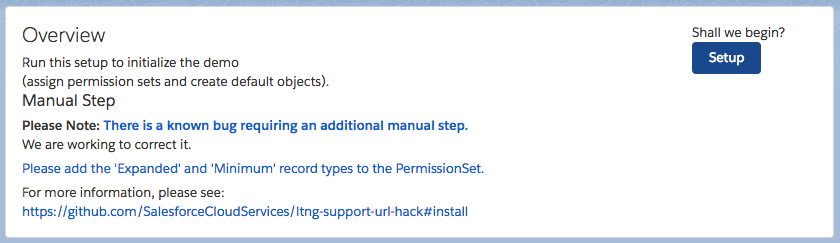
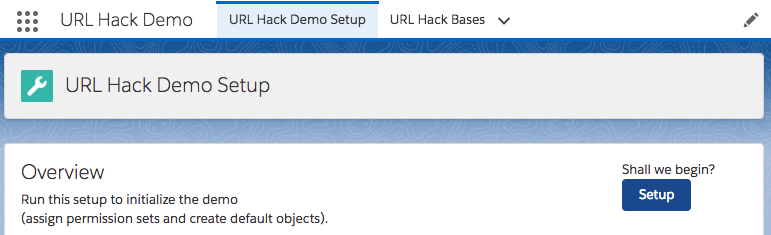
UPDATE: have the setup take you directly to the permission set challenge

diff --git a/dx/force-app/main/default/aura/ltng_URLHackDemoSetup/ltng_URLHackDemoSetupHelper.js b/dx/force-app/main/default/aura/ltng_URLHackDemoSetup/ltng_URLHackDemoSetupHelper.js
@@ -27,5 +27,37 @@
 			component.set("v.completionSteps", results);
 		})
 		$A.enqueueAction(action);
+	},
+
+	/**
+	 * starts the process to redirect to the permission set trouble spot.
+	 */
+	redirectToPermissionIssue : function(component, helper){
+		var action = component.get("c.getMissingPermissionSetRedirection");
+		var defaultAddress = '/one/one.app#/setup/PermSets/home';
+
+		action.setCallback(this, function(response){
+			var state = response.getState();
+			var targetAddress = defaultAddress;
+
+			if(state === "SUCCESS"){
+				var targetAddress = response.getReturnValue();
+			}
+
+			helper.redirectToURL(component, helper, targetAddress);
+		})
+		$A.enqueueAction(action);
+	},
+
+	/**
+	 * Redirects the user to the trouble spot from metadata.
+	 * @param targetURL (String) - the url to redirect to.
+	 */
+	redirectToURL : function(component, helper, targetURL){
+		var action = $A.get('e.force:navigateToURL');
+		action.setParams({
+			'url': targetURL
+		});
+		action.fire();
 	}
 })

diff --git a/dx/force-app/main/default/aura/ltng_URLHackDemoSetup/ltng_URLHackDemoSetupController.js b/dx/force-app/main/default/aura/ltng_URLHackDemoSetup/ltng_URLHackDemoSetupController.js
@@ -17,12 +17,6 @@
 	 * Open the permission set page
 	 */
 	handlePermissionSetOpen : function(component, event, helper){
-		console.info('open permission set');
-		var address = '/one/one.app#/setup/PermSets/home';
-		var action = $A.get('e.force:navigateToURL');
-		action.setParams({
-			'url': address
-		});
-		action.fire();
+		helper.redirectToPermissionIssue(component, helper);
 	}
 })
